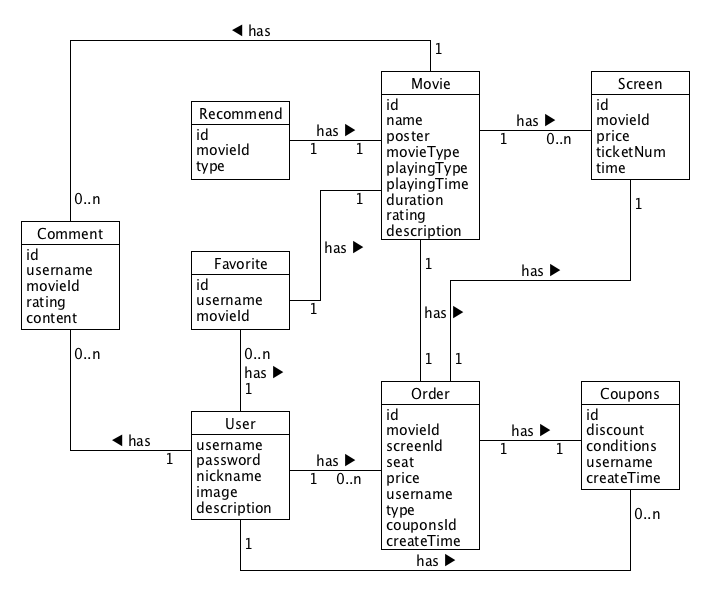
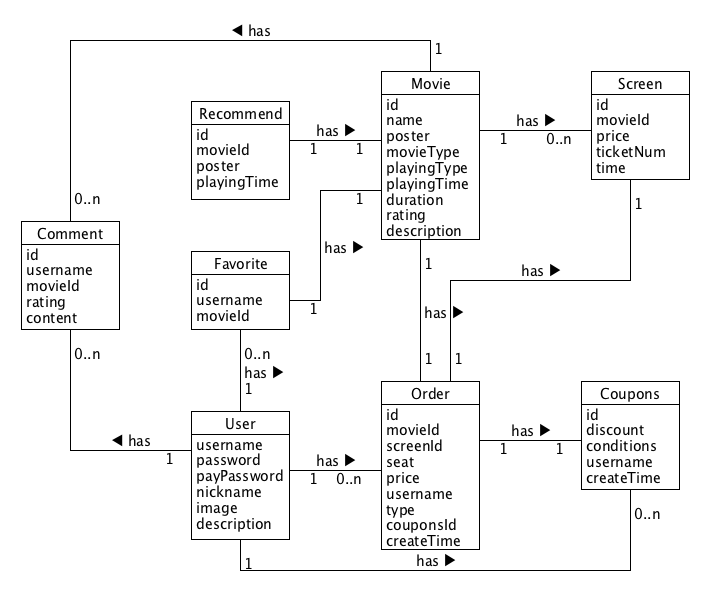
完善数据模型

Changed region(s): [[0.2789, 0.7475, 0.4028, 0.9033], [0.2789, 0.2492, 0.4028, 0.3115]]

diff --git a/README.md b/README.md
@@ -131,15 +131,15 @@ git pull upstream dev
 ```json
 {
     "movie": {
-        "id": "uid",
-        "name": "string",
-        "poster": "string",
-        "movieType": "string",
-        "playingType": "string",
-        "playingTime": "date",
-        "duration": "integer",
-        "rating": "integer",
-        "description": "string"
+        "id": "uid, 数据库ID",
+        "name": "string, 电影名称",
+        "poster": "string, 海报链接",
+        "movieType": "string, 电影类型, 动作/冒险/爱情/喜剧等",
+        "playingType": "string, 播放类型, 2D/3D/国语/外语等",
+        "playingTime": "date, 上映日期",
+        "duration": "integer, 电影时长",
+        "rating": "integer, 电影评分, 取值范围0-5",
+        "description": "string, 电影简介"
     },
     "example": {
         "id": "dheusidewhxj289f74gsuc78",
@@ -158,14 +158,16 @@ git pull upstream dev
 ```json
 {
     "recommend": {
-        "id": "uid",
-        "movieId": "uid",
-        "type": "integer"
+        "id": "uid, 数据库ID",
+        "movieId": "uid, 数据库ID",
+        "poster": "string, 海报链接",
+        "playingTime": "date, 上映日期"
     },
     "example": {
         "id": "dheusidewhxj289f74gsuc58",
         "movieId": "dheusidewhxj289f74gsuc78",
-        "integer": "0"
+        "poster": "/static/images/poster/adadhehudhadhwkudhcbfei.png",
+        "playingTime": "1493001432820"
     }
 }
 ```
@@ -173,15 +175,17 @@ git pull upstream dev
 ```json
 {
     "user": {
-        "username": "string",
-        "password": "string",
-        "nickname": "string",
-        "image": "string",
-        "description": "string"
+        "username": "string, 用户名/账号",
+        "password": "string, 登录密码",
+        "payPassword": "string, 支付密码",
+        "nickname": "string, 昵称",
+        "image": "string, 头像链接",
+        "description": "string, 个签"
     },
     "example": {
         "username": "18819212345",
         "password": "xxxxxxxx",
+        "payPassword": "xxxxxxx",
         "nickname": "风不定，人初静",
         "image": "/static/images/user/18819253798.png",
         "description": "风不定，人初静，明日落红应满径。"
@@ -192,11 +196,11 @@ git pull upstream dev
 ```json
 {
     "screen": {
-        "id": "uid",
-        "movieId": "uid",
-        "price": "double",
-        "ticketNum": "integer",
-        "time": "date"
+        "id": "uid, 数据库ID",
+        "movieId": "uid, 数据库ID",
+        "price": "double, 本场次电影票价格",
+        "ticketNum": "integer, 本场次售票数量",
+        "time": "date, 开始放映的时间"
     },
     "example": {
         "id": "dheusidewhxj289f74gswsu8",
@@ -211,22 +215,22 @@ git pull upstream dev
 ```json
 {
     "order": {
-        "id": "uid",
-        "movieId": "uid",
-        "screenId": "uid",
-        "seat": "uid",
-        "price": "double",
-        "username": "string",
-        "type": "integer",
-        "couponsId": "uid",
-        "createTime": "date"
+        "id": "uid, 数据库ID",
+        "movieId": "uid, 电影的数据库ID",
+        "screenId": "uid, 场次的数据库ID",
+        "seat": "string, 座位",
+        "price": "double, 订单总额",
+        "username": "string, 用户名",
+        "type": "integer, 订单类型, 0:未支付, 1:待取票, 2:未上映, 3:待评价",
+        "couponsId": "uid, 优惠券的数据库ID",
+        "createTime": "date, 订单创建时间"
     },
     "example": {
         "id": "dheusidewhxj89if74gsuc78",
         "movieId": "dheusidewhxsud9f74gsuc78",
         "screenId": "dheusi8uwhxj289f74gsuc78",
-        "seat": "36",
-        "price": "45.8",
+        "seat": "36,37",
+        "price": "80",
         "username": "18819212345",
         "type": "0",
         "couponsId": "dheusidewhxsud9f74gsuc78",
@@ -238,11 +242,11 @@ git pull upstream dev
 ```json
 {
     "coupons": {
-        "id": "uid",
-        "discount": "double",
-        "conditions": "double",
-        "username": "string",
-        "createTime": "date"
+        "id": "uid, 数据库ID",
+        "discount": "double, 折扣, 5%、10%等",
+        "conditions": "double, 使用条件, 例如满60元可用",
+        "username": "string, 用户名",
+        "createTime": "date, 创建时间"
     },
     "example": {
         "id": "d8uqsidewhxj289io4gsuc78",
@@ -257,9 +261,9 @@ git pull upstream dev
 ```json
 {
     "favorite": {
-        "id": "uid",
-        "username": "string",
-        "movieId": "uid"
+        "id": "uid, 数据库ID",
+        "username": "string, 用户名",
+        "movieId": "uid, 电影的数据库ID"
     },
     "example": {
         "id": "d8uqsidewhxj289io4gsuc78",
@@ -272,11 +276,11 @@ git pull upstream dev
 ```json
 {
     "comment": {
-        "id": "uid",
-        "username": "string",
-        "movieId": "uid",
-        "rating": "integer",
-        "content": "string"
+        "id": "uid, 数据库ID",
+        "username": "string, 用户名",
+        "movieId": "uid, 电影的数据库ID",
+        "rating": "integer, 评分, 取值范围0-5",
+        "content": "string, 评价内容"
     },
     "example": {
         "id": "asow9sidewhxj289io4gsuc78",
